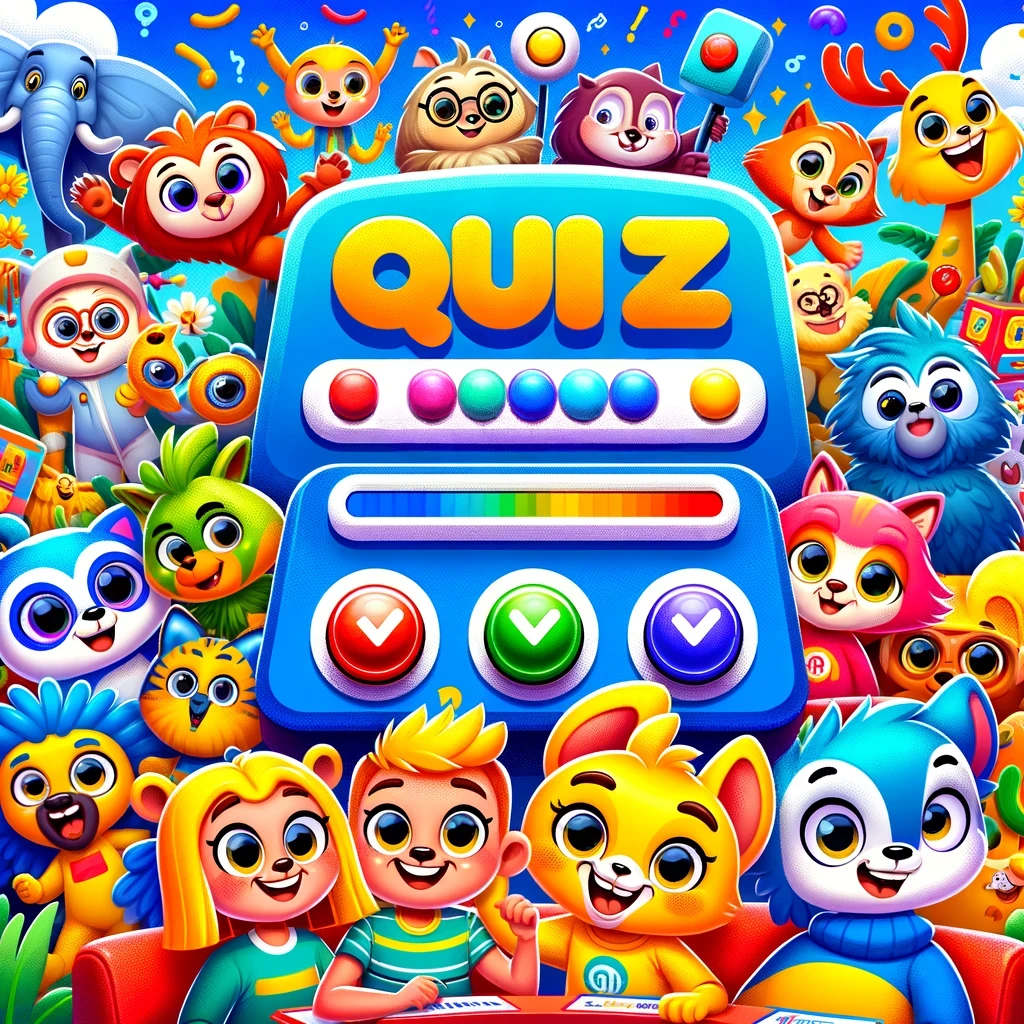
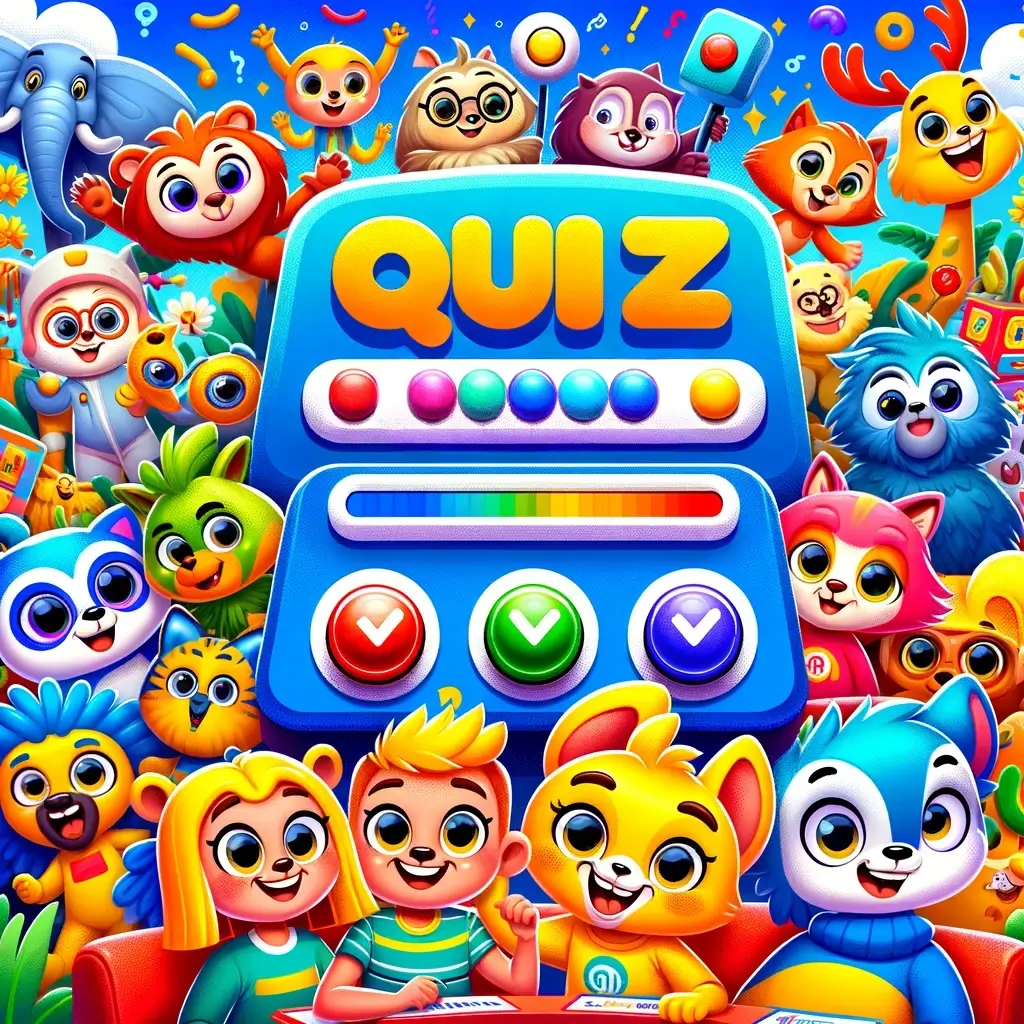
Optimized imaged and add robots.txt

diff --git a/src/components/footer/Footer.tsx b/src/components/footer/Footer.tsx
@@ -2,25 +2,29 @@ import React from "react";
 import { Link } from "react-router-dom";
 // import { FaPhoneAlt } from "react-icons/fa";
 // import { AiOutlineMail } from "react-icons/ai";
-import "./footer.css";
+// import "./footer.module.css";
+import styles from "./footer.module.css";
 
 const Footer: React.FC = () => {
   return (
     <>
-      <div className="footer_bg">
+      <div className={styles.footer_bg}>
         <div className="container">
           <footer>
             <Link to="/">
-              <h1 className={"logo-text"}>KidQuizIt</h1>
+              <h1 className={styles.logoText}>KidQuizIt</h1>
               {/*<img src={logo} className="logo" alt="" />*/}
             </Link>
-            <div className="foot_3">
+            <div className={styles.foot_3}>
               <Link to="/privacy">Privacy and Policy</Link>
               <Link to="/terms">Terms and Conditions</Link>
             </div>
-            <div className="copyright">
+            <div className={styles.copyright}>
               <h2>Copyright © YouGifted, LLC. All rights reserved</h2>
-              <a className={"mail"} href={"mailto:commercial@kidquizit.com"}>
+              <a
+                className={styles.mail}
+                href={"mailto:commercial@kidquizit.com"}
+              >
                 <h2>Commercial: commercial@kidquizit.com</h2>
               </a>
               <a href={"mailto:support@kidquizit.com"}>

diff --git a/src/components/header/Header.tsx b/src/components/header/Header.tsx
@@ -112,7 +112,7 @@ const Header: React.FC = () => {
             <div className="container">
               <header>
                 <Link to="/">
-                  <h1 className={"logo-text"}>KidQuizIt</h1>
+                  <h1 className={"logoText"}>KidQuizIt</h1>
                   {/*<img src={logo} className="logo" alt="" />*/}
                 </Link>
                 <nav>
@@ -184,7 +184,7 @@ const Header: React.FC = () => {
                           {/*  <img src={logo} alt="" />*/}
                           {/*</Link>*/}
                           <Link to="/" onClick={changePage}>
-                            <h1 className={"logo-text"}>KidQuizIt</h1>
+                            <h1 className={"logoText"}>KidQuizIt</h1>
                             {/*<img src={logo} className="logo" alt="" />*/}
                           </Link>
                           <div className="burger_links">

diff --git a/src/components/header/header.css b/src/components/header/header.css
@@ -64,7 +64,7 @@ header > a {
 
 }
 
-.logo-text {
+.logoText {
     font-size: 40px;
     font-weight: 500;
     font-family: Fira Sans, sans-serif;

diff --git a/src/components/footer/footer.module.css b/src/components/footer/footer.module.css
@@ -65,7 +65,7 @@ footer {
 }
 
 
-.logo-text {
+.logoText {
   font-size: 40px;
   font-weight: 500;
   font-family: Fira Sans, sans-serif;
